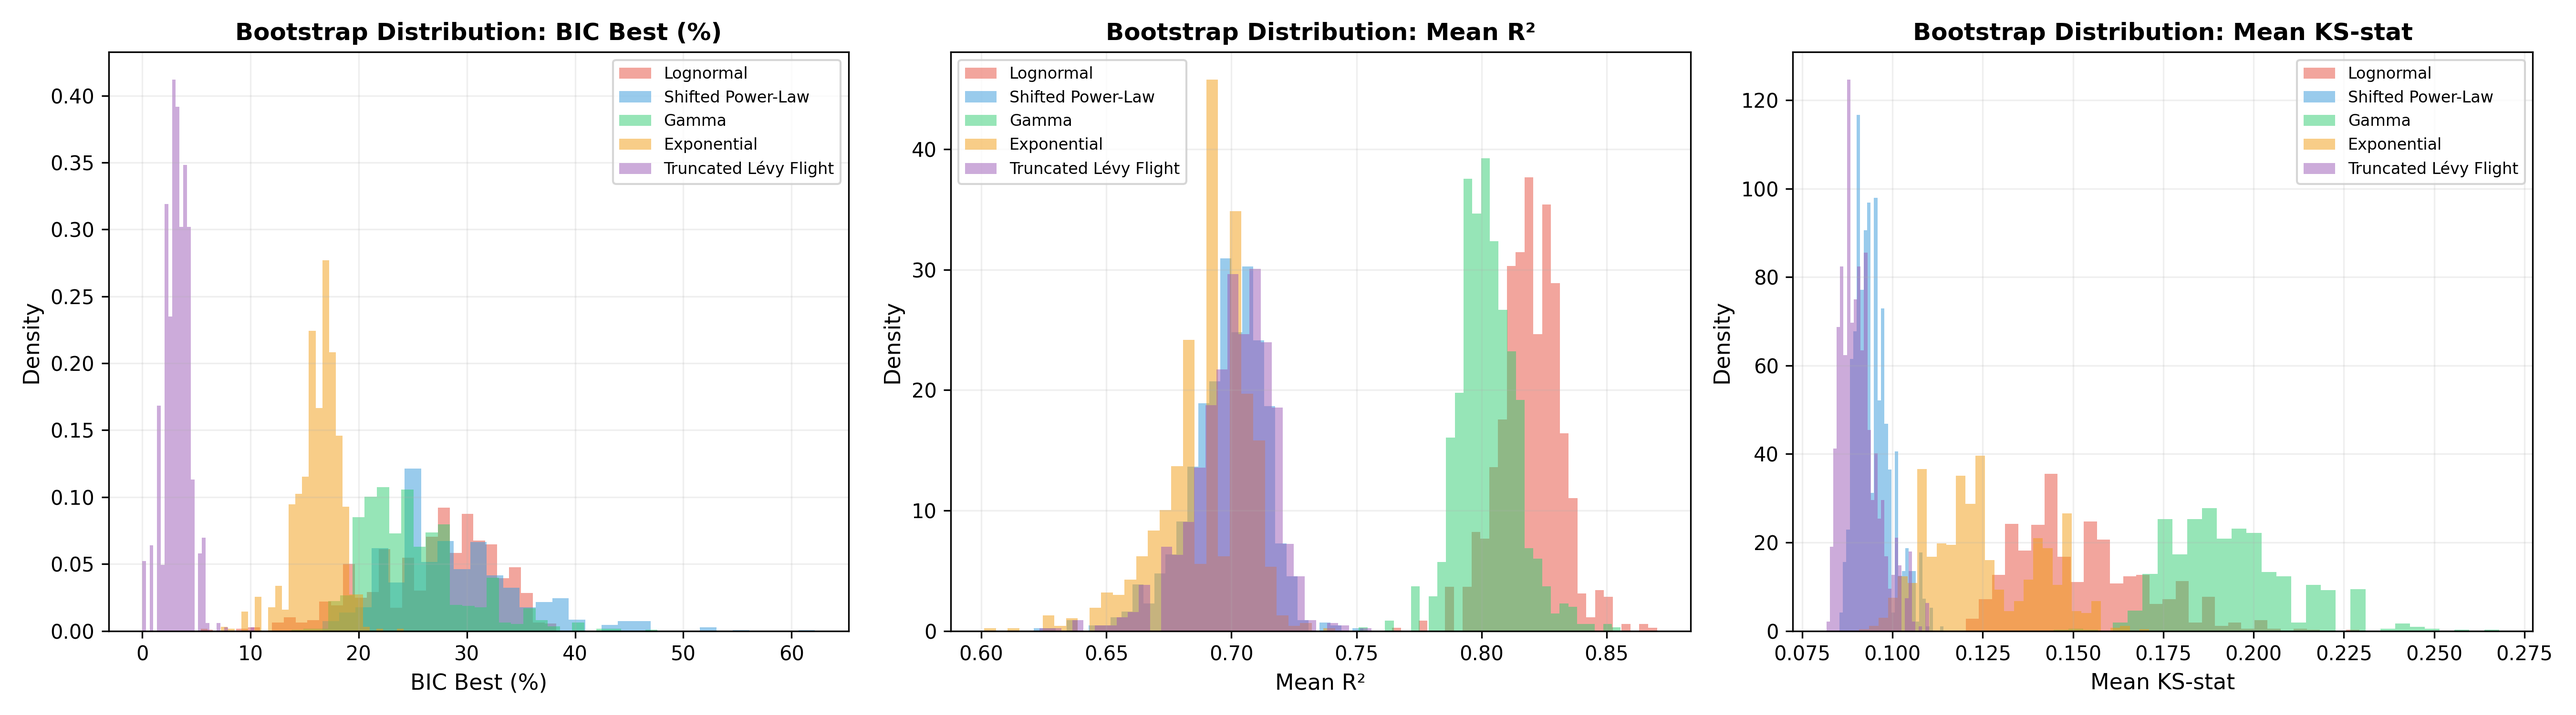
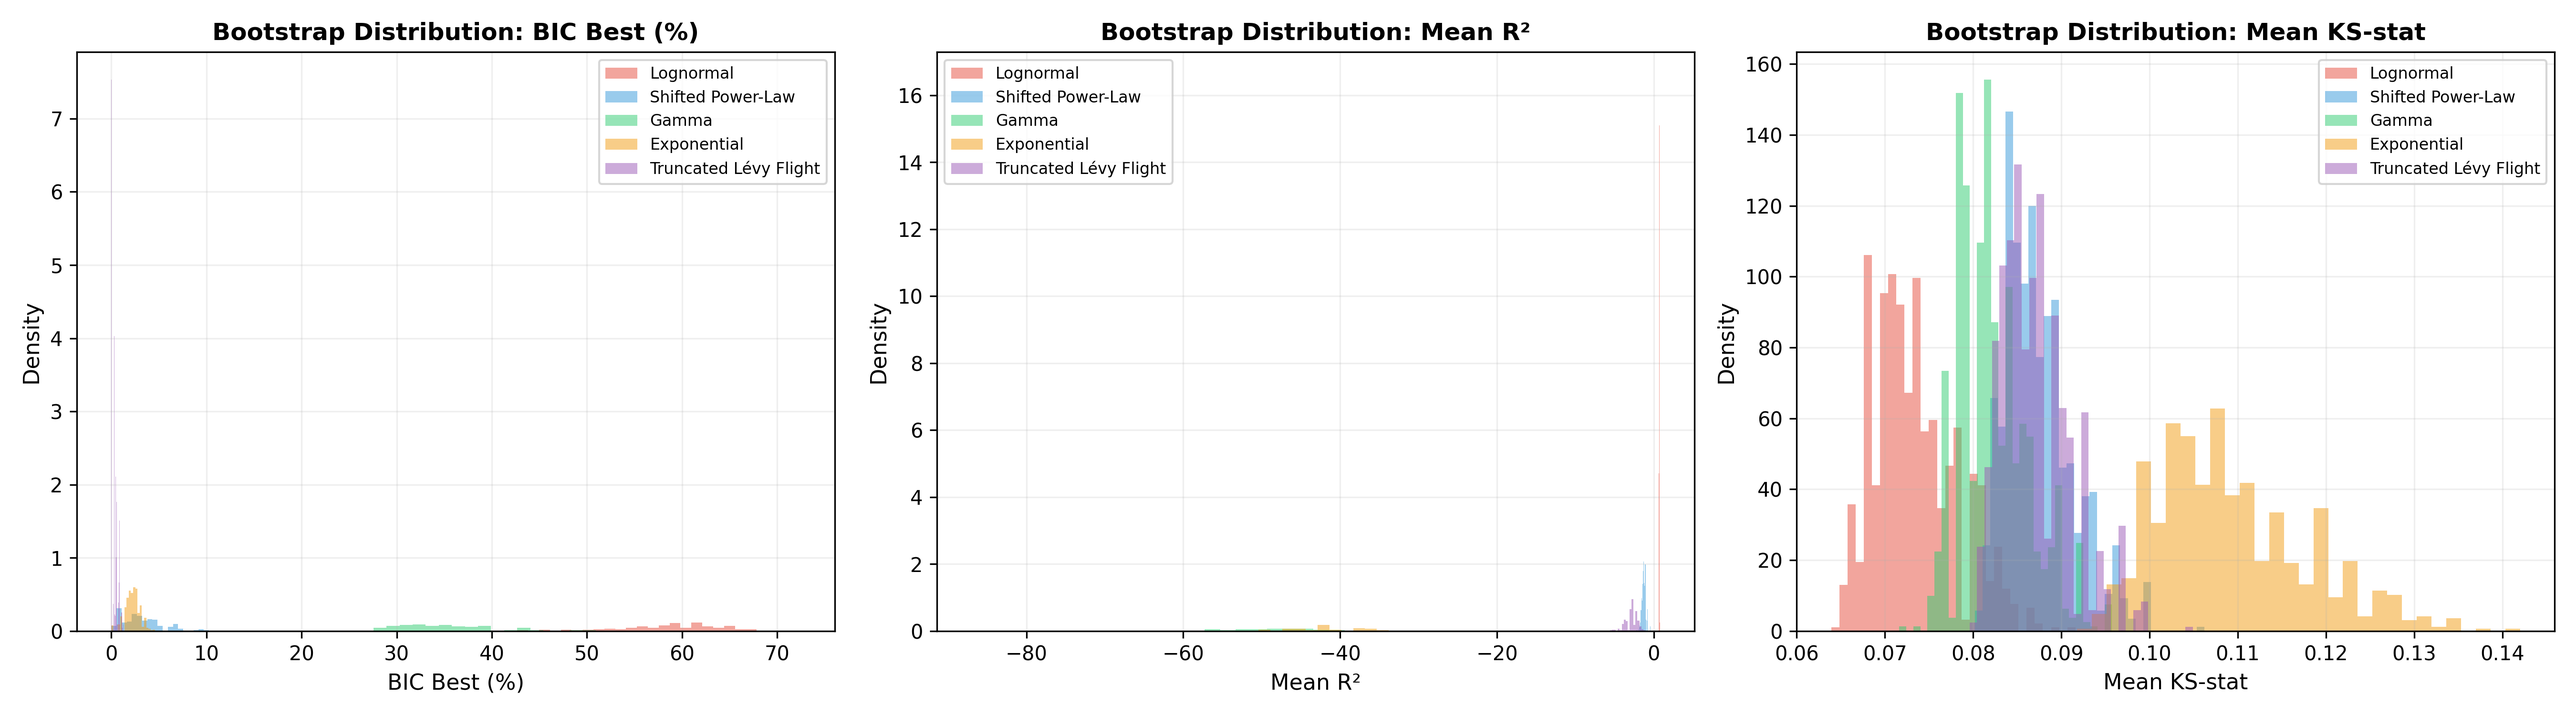
update content

diff --git a/scratch/count_models.py b/scratch/count_models.py
@@ -1,0 +1,8 @@
+import pandas as pd
+df = pd.read_csv('/Users/nguyenquocthinh/Documents/test-probability-distribution/subzone_best_model_per_metric.csv')
+for col in ['Best_AIC', 'Best_BIC', 'Best_KS', 'Best_LLH', 'Best_R2']:
+    print(f"\nMetric: {col}")
+    counts = df[col].value_counts()
+    for model, count in counts.items():
+        pct = count / len(df) * 100
+        print(f"{model}: {count} ({pct:.1f}%)")
